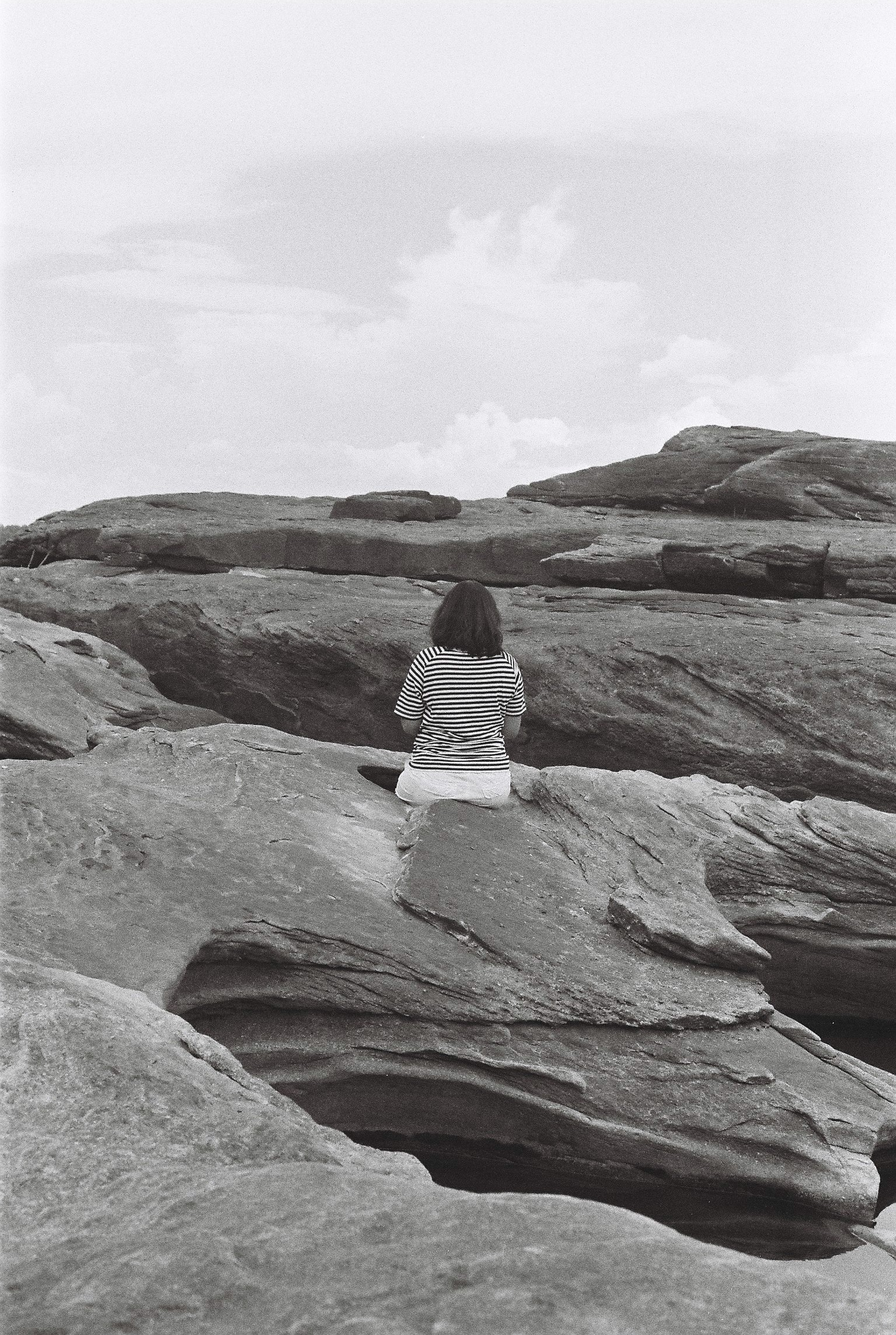
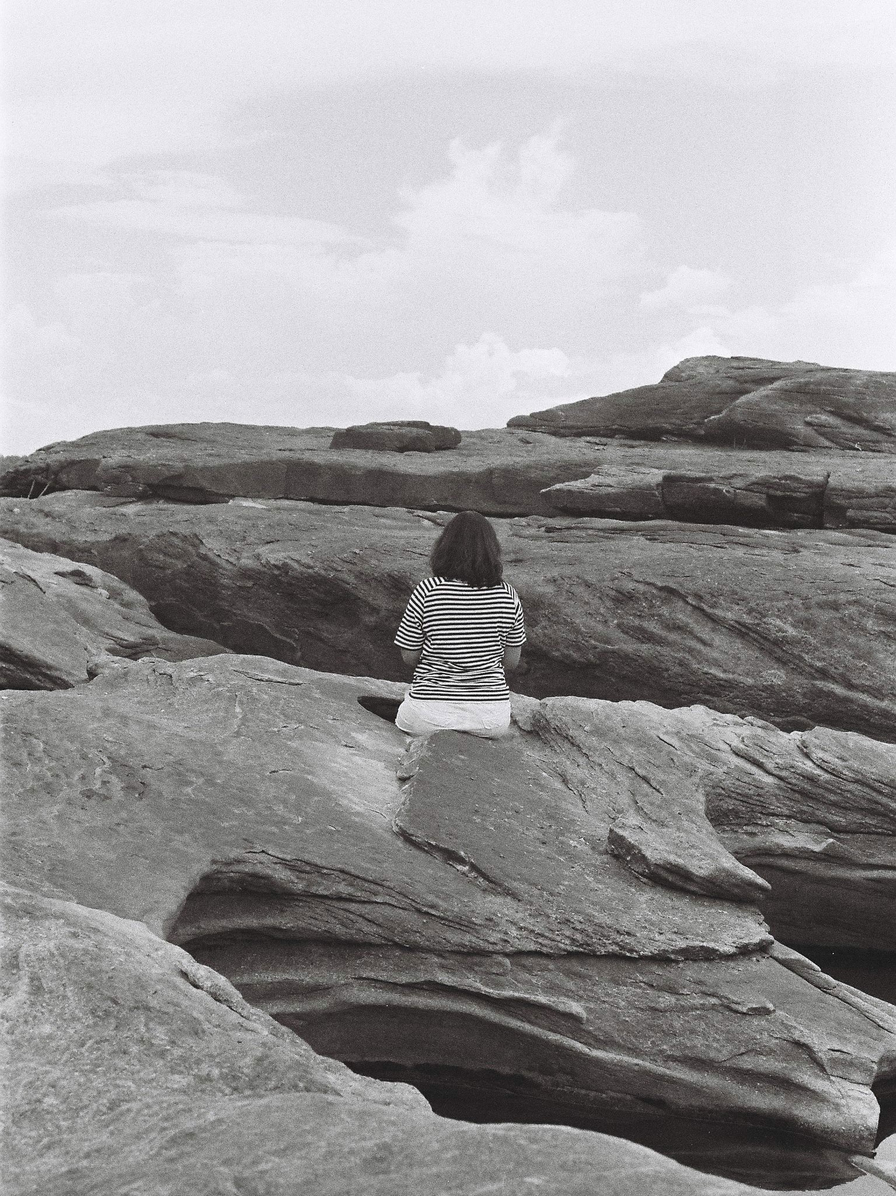
image optimization

diff --git a/index.html b/index.html
@@ -68,7 +68,7 @@
             </p>
           </div>
           <div class="image filtered tinted" data-position="top left">
-            <img src="images/DRWPic2.jpg" alt="" />
+            <img src="images/DRWPic3.jpg" alt="" />
           </div>
         </section>
 
@@ -77,9 +77,8 @@
           <div class="intro joined">
             <h2 class="major">What I do</h2>
             <p>
-              Mauris a cursus velit. Nunc lacinia sollicitudin egestas bibendum,
-              magna dui bibendum ex, sagittis commodo enim risus sed magna
-              nulla. Vestibulum ut consequat velit.
+              Full Stack Development with MongoDB, Express, React, Node.js
+              (MERN)
             </p>
           </div>
           <div class="inner">
@@ -123,12 +122,11 @@
           <div class="content span-5">
             <h2 class="major">Project 1</h2>
             <p>
-              Mauris a cursus velit. Nunc lacinia sollicitudin egestas bibendum,
-              magna dui bibendum ex, sagittis commodo enim risus sed magna
-              nulla. Vestibulum ut consequat velit. Curabitur vitae libero
-              lorem. Quisque iaculis porttitor blandit. Nullam quis sagittis
-              maximus. Sed vel nibh libero. Mauris et lorem pharetra massa lorem
-              turpis congue pulvinar.
+              In Progress In Progress In Progress In Progress In Progress In
+              Progress In Progress In Progress In Progress In Progress In
+              Progress In Progress In Progress In Progress In Progress In
+              Progress In Progress In Progress In Progress In Progress In
+              Progress
             </p>
           </div>
           <div class="image filtered tinted" data-position="top right">
@@ -218,17 +216,28 @@
             <div class="span-1-6">
               <ul class="contact-icons color1">
                 <li class="icon fa-envelope">
-                  <a href="mailto:darwin.saranwai@gmail.com"
+                  <a
+                    href="mailto:darwin.saranwai@gmail.com"
+                    rel="noopener noreferrer"
+                    target="_blank"
                     >darwin.saranwai@gmail.com</a
                   >
                 </li>
                 <li class="icon fa-linkedin">
-                  <a href="https://www.linkedin.com/in/saranwai/"
+                  <a
+                    href="https://www.linkedin.com/in/saranwai/"
+                    rel="noopener noreferrer"
+                    target="_blank"
                     >linkedin.com/saranwai</a
                   >
                 </li>
                 <li class="icon fa-github">
-                  <a href="https://github.com/sg27950">github.com/sg27950</a>
+                  <a
+                    href="https://github.com/sg27950"
+                    rel="noopener noreferrer"
+                    target="_blank"
+                    >github.com/sg27950</a
+                  >
                 </li>
               </ul>
             </div>
